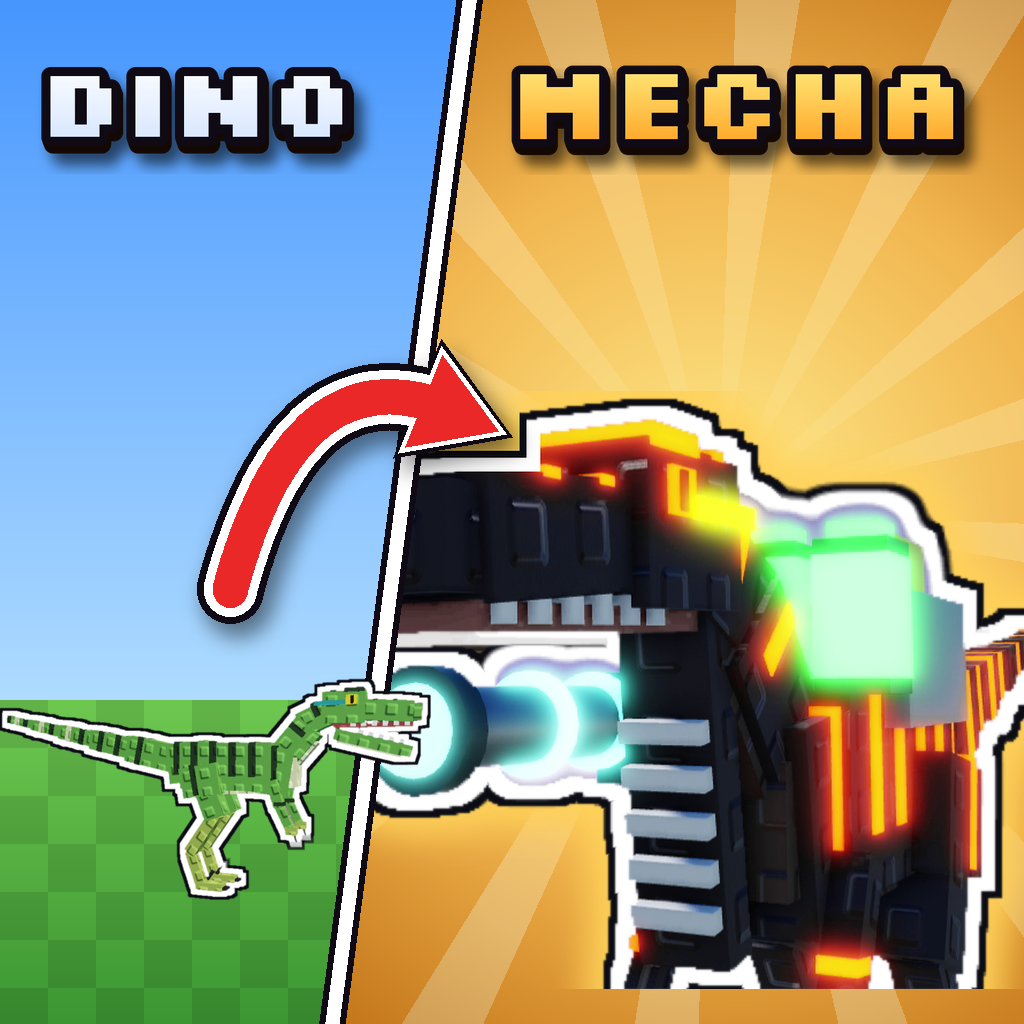
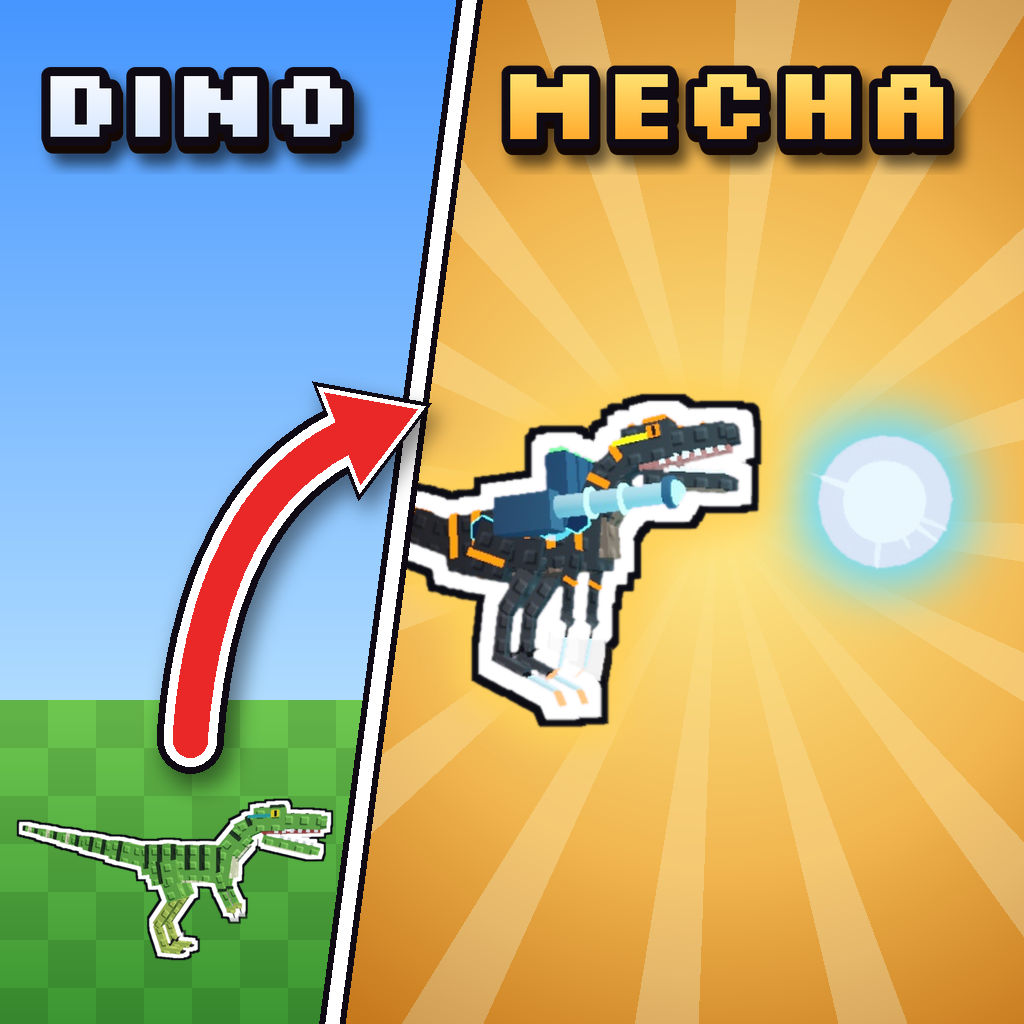
Front page v1.1c: mecha side is a full-body action shot (mid-leap Shock Cannon) of the same Lava Raptor
Claude-Session: https://claude.ai/code/session_014DiGAJ1xffrPRxmx8KX57j

diff --git a/tools/frontpage/v11_build.py b/tools/frontpage/v11_build.py
@@ -27,7 +27,7 @@ def keyed(path, crop=None, clear=()):
     return crop_sub(im, 30)
 
 plain = keyed(os.path.join(D, 'src', 'plain_raptor_frame.jpg'), clear=[(0, 560, 1920, 700), (0, 110, 300, 170)])
-mecha = keyed(os.path.join(D, 'src', 'mecha_raptor_frame_19-40-18_4.5s.png'), crop=(600, 420, 1260, 940))
+mecha = keyed(os.path.join(D, 'src', 'mecha_raptor_action_frame.jpg'), clear=[(0, 560, 1920, 700), (0, 110, 300, 170)])  # v1.1c: action shot (mid-leap, real Shock Cannon ball frozen at the barrel)
 
 def sky_ground(W, H, horizon):
     yy, xx = np.mgrid[0:H, 0:W]
@@ -80,28 +80,53 @@ def split(W, H, xt, xb, left, right, stripe=16):
 
 WHITE_TXT = dict(fill_top=(255, 255, 255), fill_bot=(205, 225, 255))
 GOLD_TXT = dict(fill_top=(255, 240, 130), fill_bot=(255, 150, 20))
-MECH = outlined(mecha, 12, (255, 255, 255), 6, (12, 12, 20), glow=(255, 210, 90))
+def build_mech():
+    # v1.1c: the action frame has the dino (left of x 1010) and the Shock Cannon ball (right of it); only the dino gets the
+    # sticker outline, the ball gets an electric glow instead
+    src = Image.open(os.path.join(D, 'src', 'mecha_raptor_action_frame.jpg')).convert('RGB')
+    tmp = os.path.join(D, 'src', '_k.png'); src.save(tmp); full = key(tmp); os.remove(tmp)
+    px = full.load()
+    for y in range(560, full.size[1]):
+        for x in range(full.size[0]): px[x, y] = (0, 0, 0, 0)
+    W0, H0 = full.size
+    dino = full.copy(); ball = full.copy()
+    dm = Image.new('L', (W0, H0), 0); ImageDraw.Draw(dm).rectangle([0, 0, 1010, H0], fill=255)
+    bm = Image.new('L', (W0, H0), 0); ImageDraw.Draw(bm).rectangle([1011, 0, W0, H0], fill=255)
+    dino.putalpha(Image.composite(dino.getchannel('A'), Image.new('L', (W0, H0), 0), dm))
+    ball.putalpha(Image.composite(ball.getchannel('A'), Image.new('L', (W0, H0), 0), bm))
+    pad = 60
+    dl = outlined(dino, 12, (255, 255, 255), 6, (12, 12, 20), glow=(255, 210, 90))
+    # ball: brighten toward white-cyan, add a soft cyan glow behind
+    arr = np.asarray(ball).astype(np.float32)
+    a = arr[..., 3:4] / 255
+    arr[..., :3] = arr[..., :3] * 0.35 + np.array([225, 245, 255.]) * 0.65
+    ballc = Image.fromarray(arr.astype(np.uint8))
+    glow = Image.new('RGBA', (W0, H0), (110, 220, 255, 0)); glow.putalpha(ball.getchannel('A').filter(ImageFilter.MaxFilter(15)).filter(ImageFilter.GaussianBlur(26)))
+    out = Image.new('RGBA', (W0, H0), (0, 0, 0, 0))
+    out.alpha_composite(glow); out.alpha_composite(glow); out.alpha_composite(dl); out.alpha_composite(ballc)
+    return crop_sub(out, 20)
+MECH = build_mech()
 
 # thumbnail 1920 x 1080
 W, H = 1920, 1080
 R = gold(W, H, cx=0.72, cy=0.5)
-place(R, MECH, 960, 1420, 690)
+place(R, MECH, 1090, 1370, 590)
 base = split(W, H, 930, 790, sky_ground(W, H, 720), R)
 place(base, outlined(plain, 10, (255, 255, 255), 5, (12, 12, 20)), 760, 400, 640)
 place(base, text3d('DINO', 190, **WHITE_TXT), 560, 410, 175)
 place(base, text3d('MECHA', 210, **GOLD_TXT), 720, 1430, 150)
-base.alpha_composite(arrow((W, H), (560, 330), (720, 150), (930, 330)))
+base.alpha_composite(arrow((W, H), (590, 330), (760, 130), (950, 280)))
 base.convert('RGB').save(os.path.join(D, 'thumb_dino_to_mecha.jpg'), quality=92)
 
 # icon 1024 x 1024
 W, H = 1024, 1024
 R = gold(W, H, cx=0.7, cy=0.5)
-place(R, MECH, 760, 690, 690)
+place(R, MECH, 870, 585, 560)
 base = split(W, H, 470, 330, sky_ground(W, H, 700), R, stripe=14)
-place(base, outlined(plain, 9, (255, 255, 255), 5, (12, 12, 20)), 450, 215, 790)
+place(base, outlined(plain, 9, (255, 255, 255), 5, (12, 12, 20)), 330, 175, 880)
 place(base, text3d('DINO', 150, **WHITE_TXT), 380, 210, 120)
-place(base, text3d('MECHA', 170, **GOLD_TXT), 520, 750, 120)
-base.alpha_composite(arrow((W, H), (230, 590), (300, 330), (470, 420), width=34, head=80))
+place(base, text3d('MECHA', 170, **GOLD_TXT), 520, 740, 120)
+base.alpha_composite(arrow((W, H), (190, 740), (210, 470), (390, 420), width=34, head=80))
 base.convert('RGB').save(os.path.join(D, 'icon_dino_to_mecha_1024.png'))
 base.convert('RGB').resize((512, 512), Image.LANCZOS).save(os.path.join(D, 'icon_dino_to_mecha_512.png'))
 

diff --git a/docs/plans/FRONT_PAGE_v0.1.md b/docs/plans/FRONT_PAGE_v0.1.md
@@ -88,3 +88,9 @@ sky + baseplate grass, plain Raptor, "DINO" | white slanted divider | gold burst
 icon_dino_to_mecha_1024.png / _512.png (same split, square), thumb_current_icon.jpg (the v1.0 icon as a framed card on a matching
 blue burst). Copies on Kepu's PC: Downloads\MechaDinoArena_UPLOAD. Upload is Kepu's (Creator Hub; Open Cloud thumbnail scope not
 granted).
+- 11:44 Kepu: "why would you choose that as the mecha picture. you cant even see what the fuck is going on" (the 19-40-18 close-up
+  was cropped: no body, no legs). Re-shot in Studio from the plain Raptor's camera: the same Raptor, Lava skin, parts on (Shock
+  Cannon, Adrenaline pack, Energy Shield, Blade claws; SkillTestMaxAllEnabled in Play only). 11:47 Kepu: "i like this dino model for
+  the mecha part but try to do an action shot with it" -> src/mecha_raptor_action_frame.jpg: a real jump, the Shock Cannon fired
+  at the top, every body part frozen at that instant (client snapshot), the real ShockBall (shell, arcs) frozen just past the
+  barrel. Only the dino gets the sticker outline; the ball gets a cyan glow. Restored after: Play stopped, switches back.
